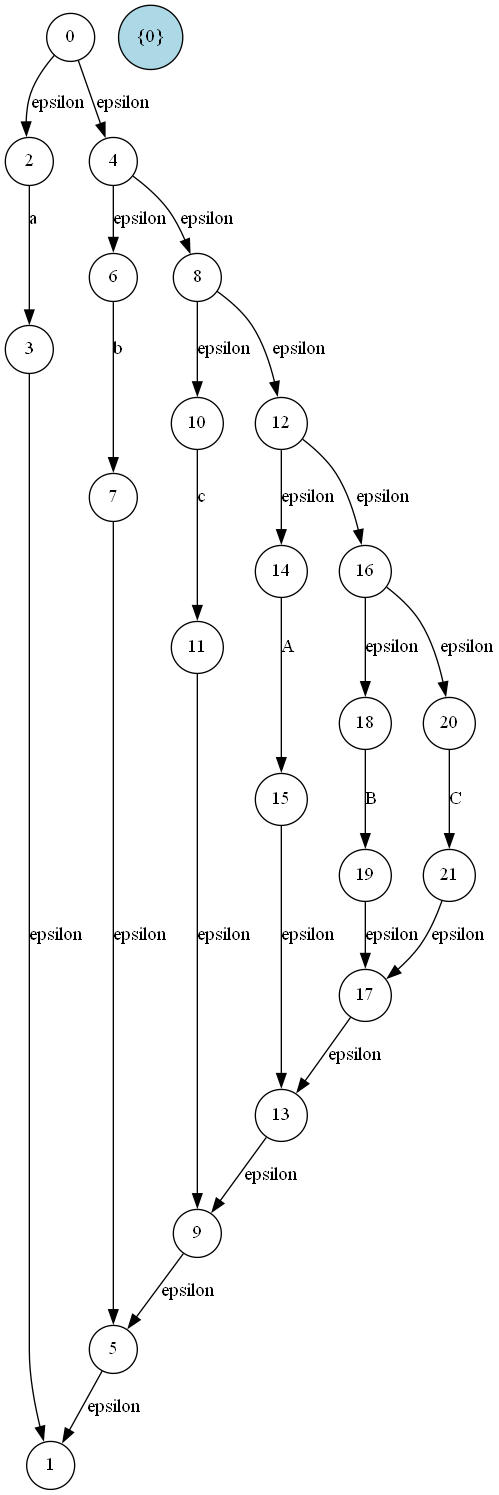
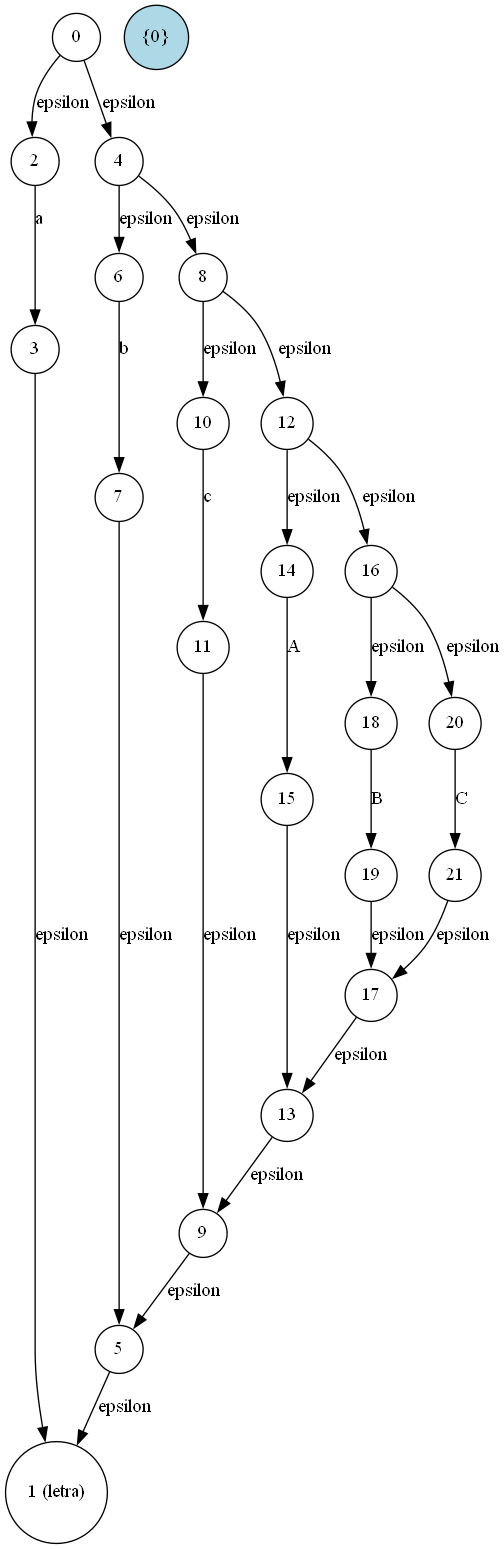
muestra el print final correspondiendo al identificador

Changed region(s): [[0.0, 0.0, 0.992, 1.0], [0.0, 0.9538, 0.0301, 0.9846]]

diff --git a/AFN.py b/AFN.py
@@ -5,7 +5,7 @@ def regex_to_enfa(regex_str):
     regex = Regex(regex_str)
     return regex.to_epsilon_nfa()
 
-def enfa_to_graphviz(enfa, mega_start_state=None):
+def enfa_to_graphviz(enfa, identifier=None):
     graph = Digraph("ENFA", format="png")
 
     # Creación de los estados del AFN
@@ -20,7 +20,11 @@ def enfa_to_graphviz(enfa, mega_start_state=None):
     # Creación de los estados finales
     graph.attr("node", shape="doublecircle")
     for final_state in enfa.final_states:
-        graph.node(str(final_state))
+        if identifier is not None:
+            label = f"{final_state} ({identifier})"
+        else:
+            label = str(final_state)
+        graph.node(str(final_state), label=label)
 
     # Creación de las transiciones
     for from_state, to_dict in enfa._transition_function._transitions.items():
@@ -31,7 +35,7 @@ def enfa_to_graphviz(enfa, mega_start_state=None):
     return graph
 
 
-def generate_mega_enfa_graph(enfas):
+def generate_mega_enfa_graph(enfas, identifiers=None):
     mega_graph = Digraph("Combined_ENFA", format="png")
     mega_start_state = "MegaStart"
 
@@ -64,7 +68,11 @@ def generate_mega_enfa_graph(enfas):
         # Creación de los estados finales
         mega_graph.attr("node", shape="doublecircle")
         for final_state in enfa.final_states:
-            mega_graph.node(str(state_mapping[final_state]))
+            if identifiers is not None:
+                label = f"{state_mapping[final_state]} ({identifiers[idx]})"
+            else:
+                label = str(state_mapping[final_state])
+            mega_graph.node(str(state_mapping[final_state]), label=label)
 
         # Conectar el mega estado inicial a los estados iniciales de los ENFA individuales
         for start_state in enfa._start_state:

diff --git a/main.py b/main.py
@@ -2,7 +2,7 @@ from funciones import reescribir_archivo, get_values_list
 from AFN import regex_to_enfa, enfa_to_graphviz, generate_mega_enfa_graph
 
 def main():
-    file_name = "EjemploYalex.txt"
+    file_name = "Ejemplo1.txt"
 
     with open(file_name, "r") as file:
         input_text = file.read()
@@ -18,16 +18,28 @@ def main():
     resultado = get_values_list(rewritten_text)
     print("Resultados:")
     print(resultado)
+    
+    enfas = [regex_to_enfa(regex) for regex in resultado]
+
+# Modificar el diccionario de categorías para tener conjuntos como claves
+    categorias = {
+        '0|1|2': "numero",
+        'a|b|c|A|B|C': "letra"
+    }
+
 
     enfas = [regex_to_enfa(regex) for regex in resultado]
 
-    # Graficar y guardar ENFA individuales
+    # Graficar y guardar ENFA individuales con identificadores según categorías
+    identifiers = [categorias.get(regex, "Desconocido") for regex in resultado]
+
     for idx, enfa in enumerate(enfas):
-        enfa_graph = enfa_to_graphviz(enfa)
+        identifier = identifiers[idx]
+        enfa_graph = enfa_to_graphviz(enfa, identifier)
         enfa_graph.render(f"enfa_output_{idx}", view=True)
 
-    # Generar y guardar el mega autómata
-    mega_enfa_graph = generate_mega_enfa_graph(enfas)
+    # Generar y guardar el mega autómata con identificadores según categorías
+    mega_enfa_graph = generate_mega_enfa_graph(enfas, identifiers)
     mega_enfa_graph.render("mega_enfa_output", view=True)
 
 if __name__ == "__main__":

diff --git a/funciones.py b/funciones.py
@@ -70,3 +70,13 @@ def get_values_list(rewritten_text):
             values_list.append(value)
 
     return values_list
+
+def find_identifier_from_transitions(enfa, categories):
+    for from_state, to_dict in enfa._transition_function._transitions.items():
+        for symbol, to_states in to_dict.items():
+            for to_state in to_states:
+                if to_state in enfa.final_states:
+                    for key, value in categories.items():
+                        if symbol in key:
+                            return value
+    return "Desconocido"
